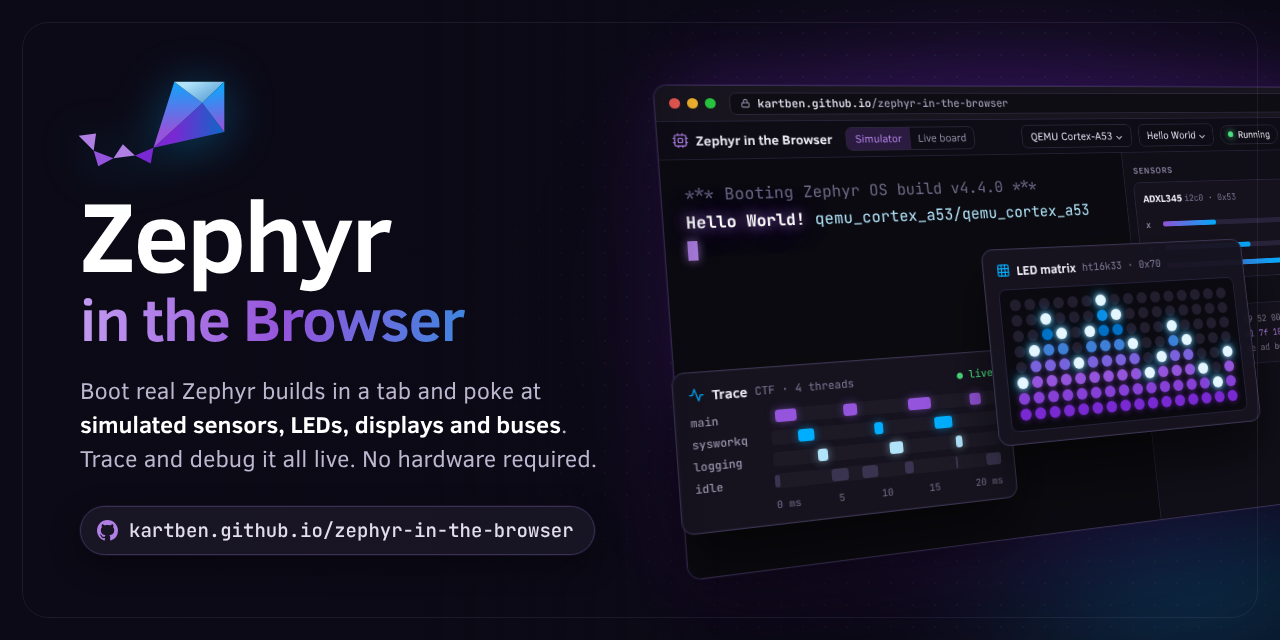
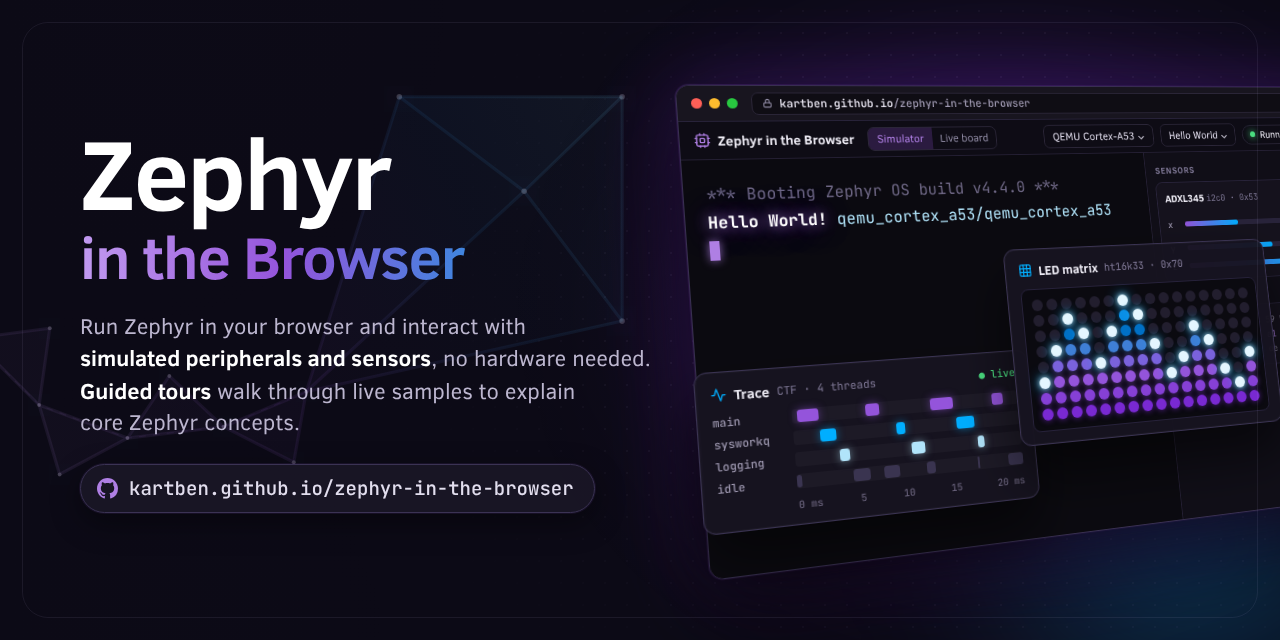
feat(site): refresh the social card copy
Mentions guided tours, and the og:description now matches the card.

Assisted-by: Claude:opus-5.5

diff --git a/index.html b/index.html
@@ -16,7 +16,7 @@
     <meta property="og:title" content="Zephyr in the Browser" />
     <meta
       property="og:description"
-      content="Boot real Zephyr builds in a tab and poke at simulated sensors, LEDs, displays and buses. Trace and debug it all live. No hardware required."
+      content="Run Zephyr in your browser and interact with simulated peripherals and sensors, no hardware needed. Guided tours walk through live samples to explain core Zephyr concepts."
     />
     <meta property="og:url" content="https://kartben.github.io/zephyr-in-the-browser/" />
     <meta property="og:image" content="https://kartben.github.io/zephyr-in-the-browser/social-card.png" />
